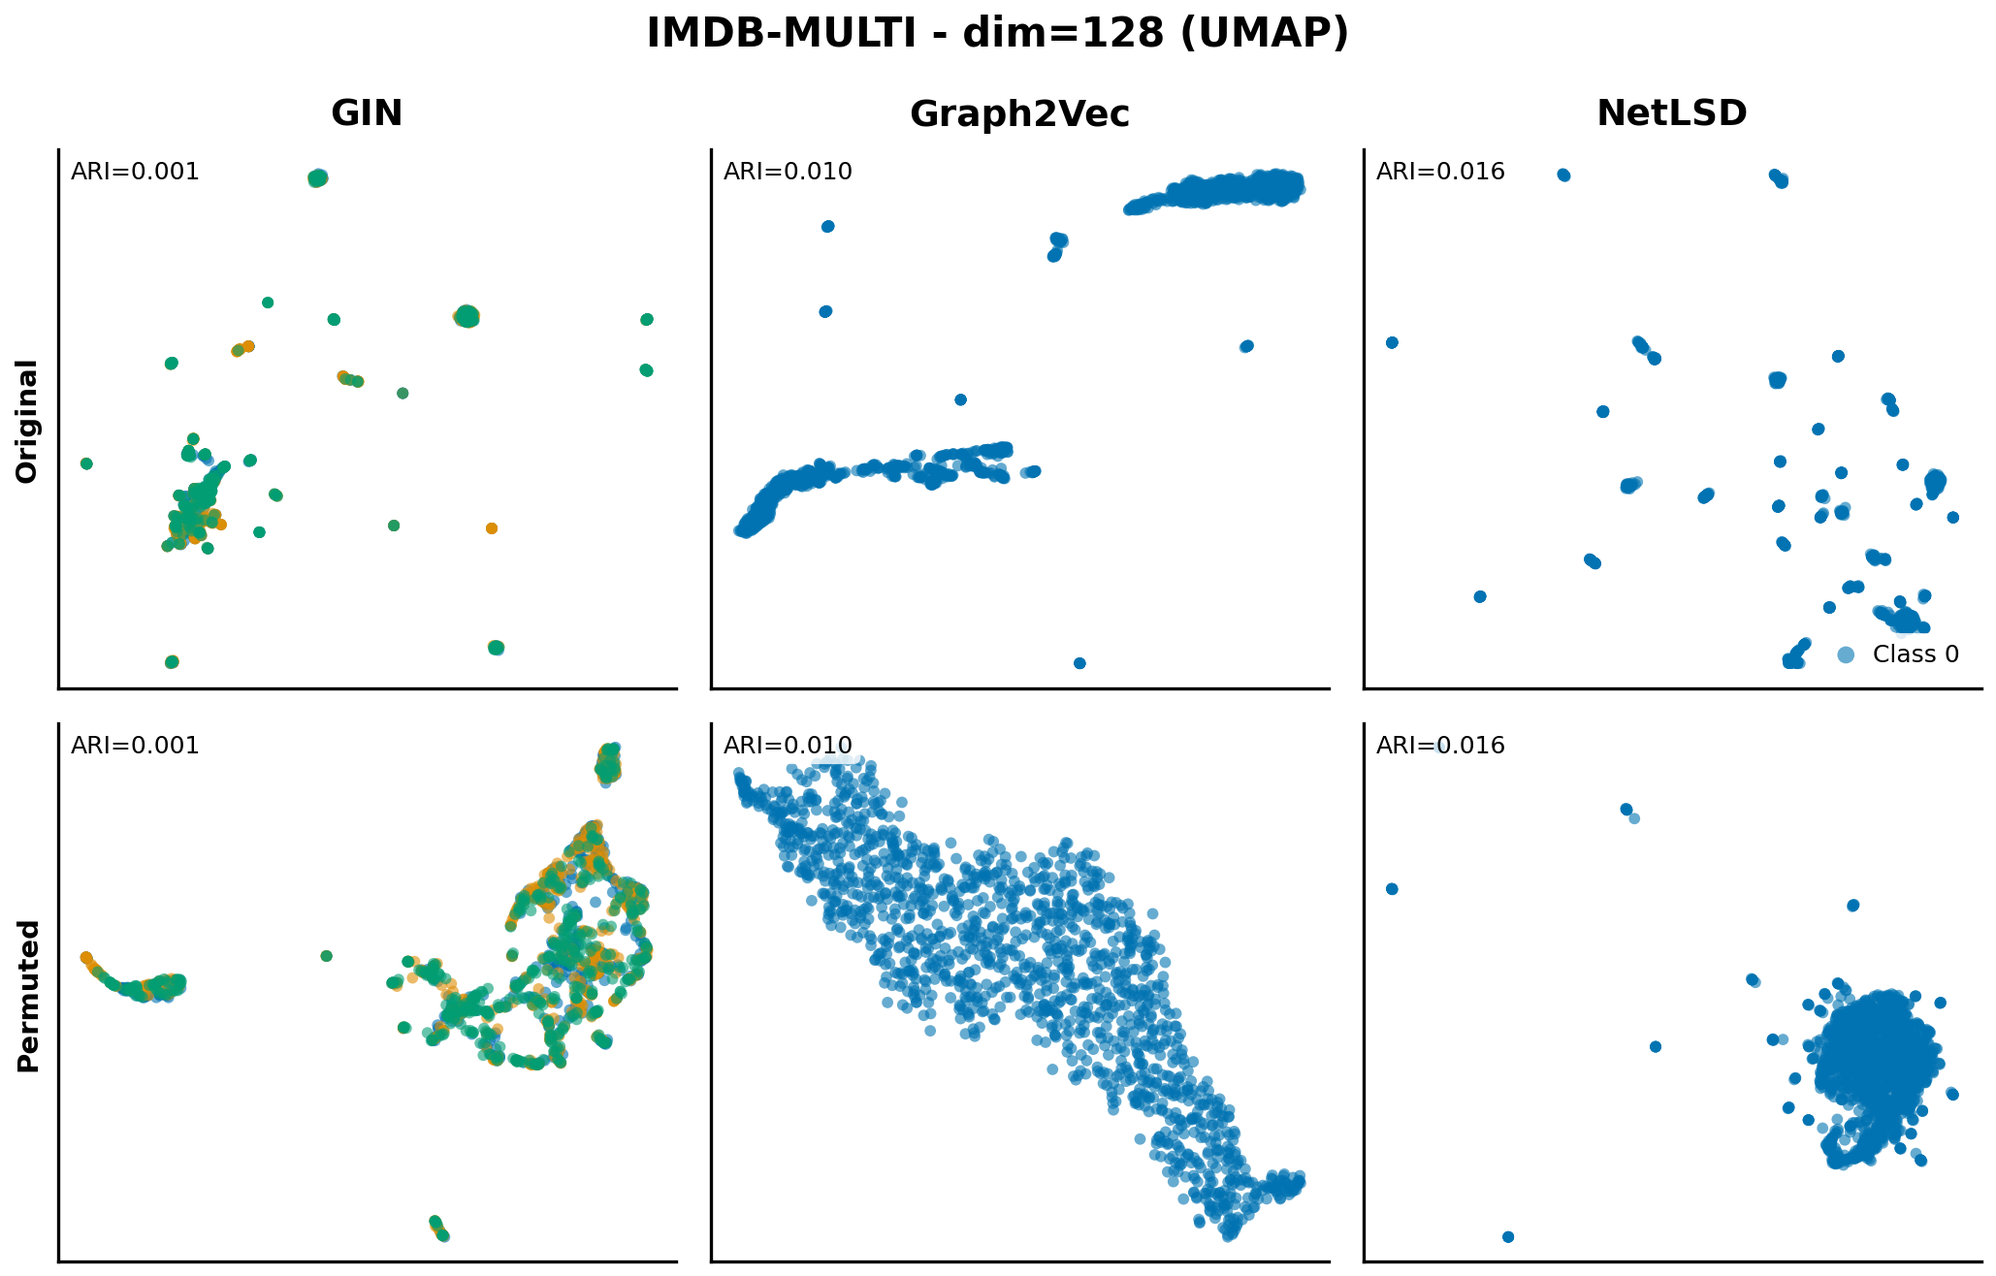
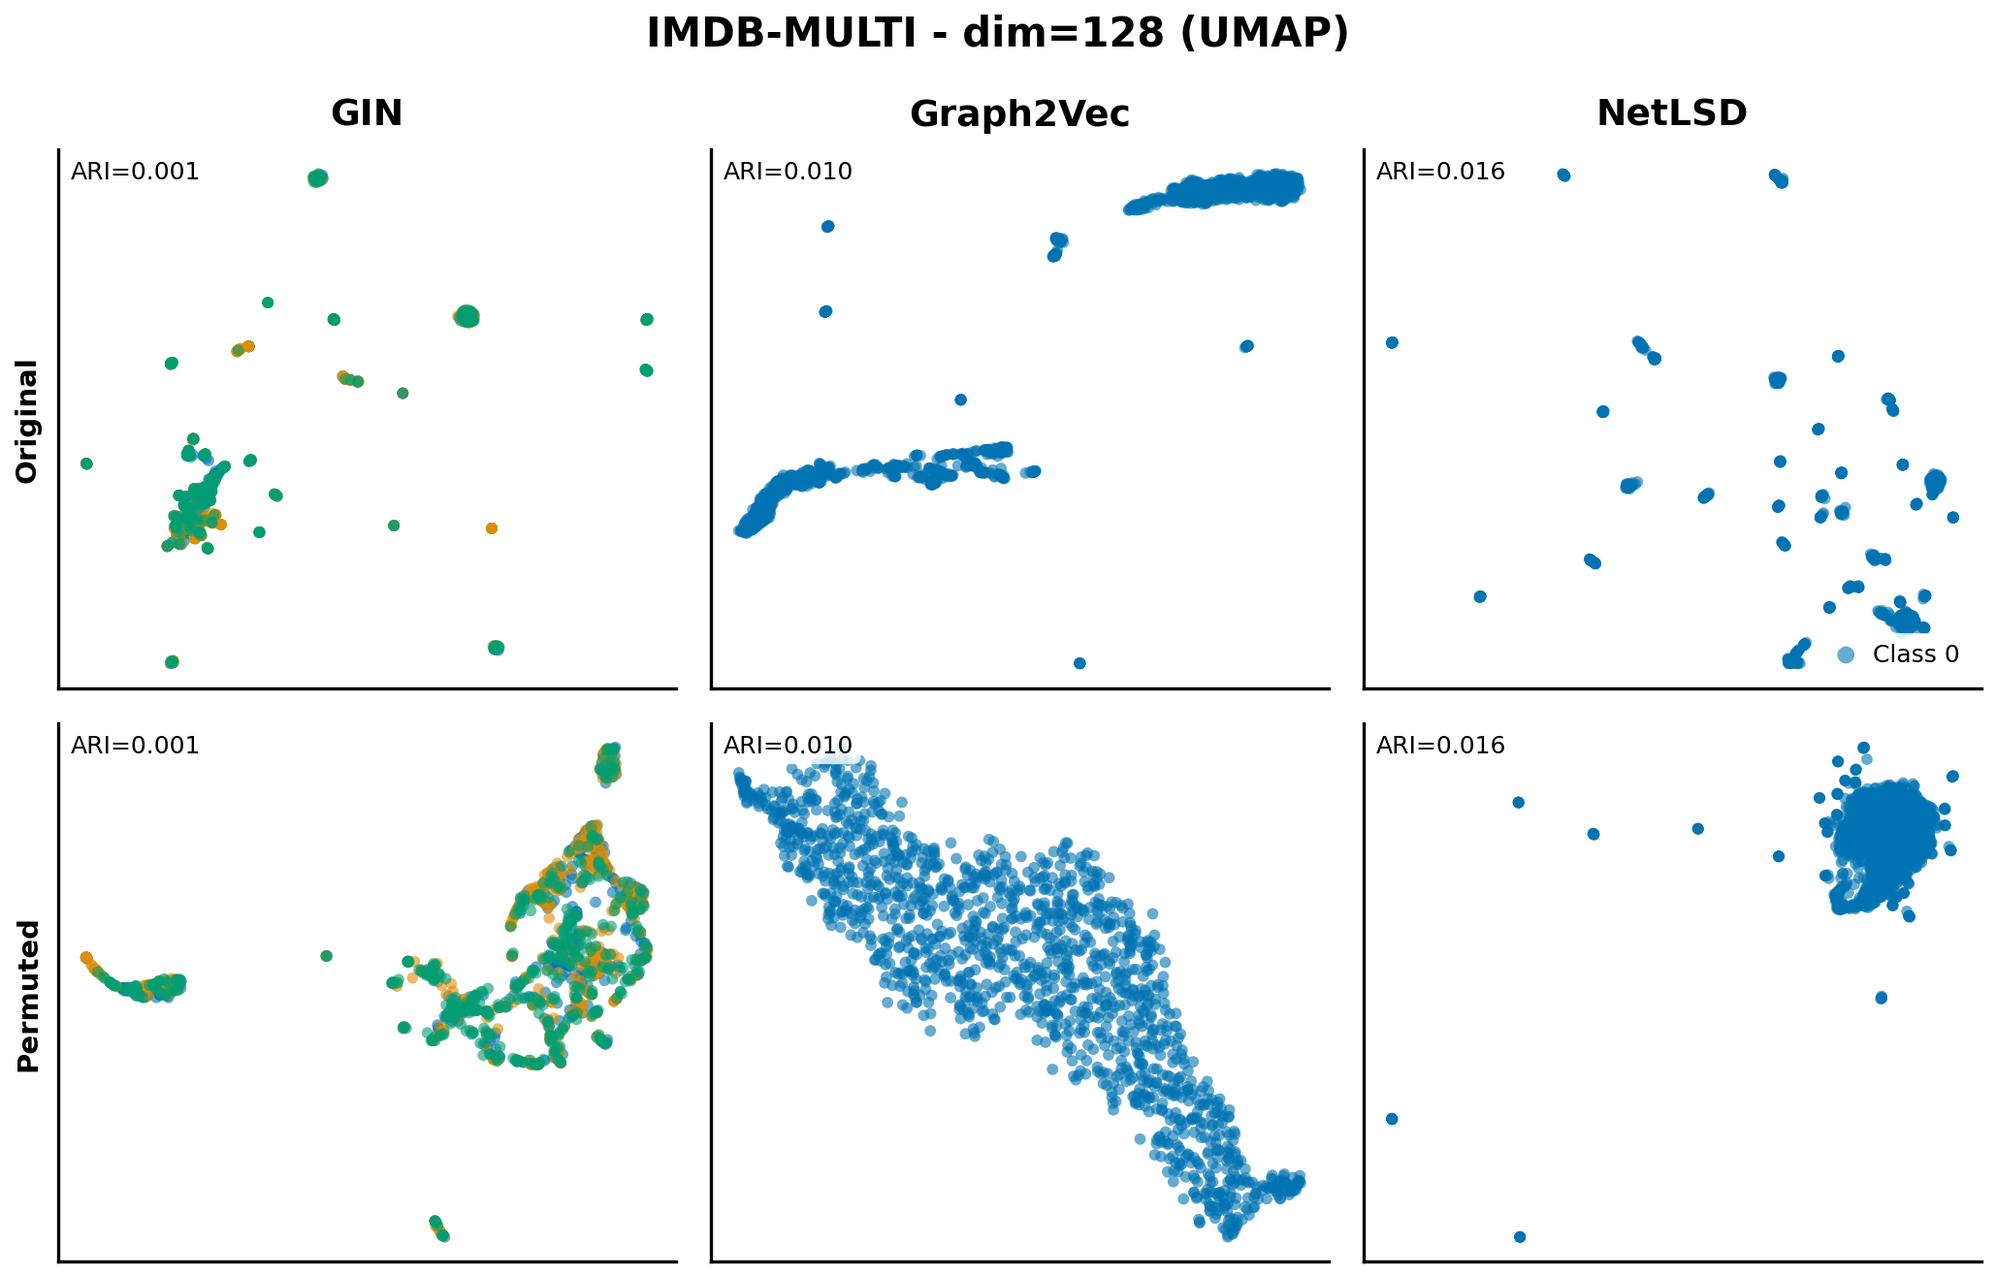
all plots done

Changed region(s): [[0.8707, 0.7477, 0.9951, 0.9347], [0.9018, 0.5919, 0.9951, 0.7166], [0.8086, 0.6231, 0.8397, 0.6543]]

diff --git a/scripts/clustering_vis_extended.py b/scripts/clustering_vis_extended.py
@@ -805,6 +805,305 @@ def create_metrics_heatmap(df, cluster_alg='kmeans', output_path=None):
 
 
 # =============================================================================
+# NEW: t-SNE vs UMAP PER DATASET (2×3)
+# =============================================================================
+
+def create_tsne_vs_umap_per_dataset(df, dataset, dim, base_dir, datasets_dir, output_path=None):
+    """
+    t-SNE vs UMAP comparison for a single dataset.
+    Layout: 2×3 (rows: t-SNE/UMAP, cols: GIN/Graph2Vec/NetLSD)
+    """
+    if not UMAP_AVAILABLE:
+        print("UMAP not available.")
+        return None
+    
+    fig, axes = plt.subplots(2, 3, figsize=Config.FIGSIZE_2x3)
+    
+    for col, method in enumerate(Config.METHODS):
+        best_config = get_best_config_for_method_dataset_dim(df, method, dataset, dim)
+        
+        embeddings, labels = None, None
+        if best_config is not None:
+            run_name = best_config.get('run_name') if pd.notna(best_config.get('run_name')) else None
+            embeddings, labels = load_embeddings(method, dataset, dim, base_dir, datasets_dir, run_name)
+        
+        for row, proj_type in enumerate(['tsne', 'umap']):
+            ax = axes[row, col]
+            
+            if embeddings is None:
+                plot_empty_cell(ax, 'N/A', method if row == 0 else None)
+                if col == 0:
+                    ax.set_ylabel('t-SNE' if proj_type == 'tsne' else 'UMAP',
+                                 fontsize=Config.LABEL_SIZE, fontweight='bold')
+                continue
+            
+            projection = compute_projection(embeddings, proj_type)
+            metrics_text = f"ARI={best_config['ari']:.3f}\nNMI={best_config['nmi']:.3f}"
+            
+            title = method if row == 0 else None
+            plot_embedding_scatter(ax, projection, labels, title=title,
+                                  metrics_text=metrics_text, show_legend=(row == 0 and col == 2))
+            
+            if col == 0:
+                ax.set_ylabel('t-SNE' if proj_type == 'tsne' else 'UMAP',
+                             fontsize=Config.LABEL_SIZE, fontweight='bold')
+    
+    fig.suptitle(f"{dataset} - t-SNE vs UMAP (dim={dim})",
+                fontsize=Config.TITLE_SIZE + 1, fontweight='bold', y=0.98)
+    plt.tight_layout()
+    
+    if output_path:
+        plt.savefig(output_path, dpi=Config.DPI, bbox_inches='tight')
+        print(f"Saved: {output_path}")
+    
+    return fig
+
+
+# =============================================================================
+# NEW: K-MEANS vs SPECTRAL PER DATASET (2×3)
+# =============================================================================
+
+def create_kmeans_vs_spectral_per_dataset(df, dataset, dim, base_dir, datasets_dir,
+                                          projection_type='tsne', output_path=None):
+    """
+    K-means vs Spectral clustering comparison for a single dataset.
+    Layout: 2×3 (rows: K-means/Spectral, cols: GIN/Graph2Vec/NetLSD)
+    """
+    fig, axes = plt.subplots(2, 3, figsize=Config.FIGSIZE_2x3)
+    
+    cluster_algs = ['kmeans', 'spectral']
+    cluster_labels = ['K-means', 'Spectral']
+    
+    for col, method in enumerate(Config.METHODS):
+        # Load embeddings once (same for both clustering methods)
+        best_config_km = get_best_config_for_method_dataset_dim(df, method, dataset, dim, cluster_alg='kmeans')
+        
+        embeddings, labels = None, None
+        if best_config_km is not None:
+            run_name = best_config_km.get('run_name') if pd.notna(best_config_km.get('run_name')) else None
+            embeddings, labels = load_embeddings(method, dataset, dim, base_dir, datasets_dir, run_name)
+        
+        # Compute projection once
+        projection = None
+        if embeddings is not None:
+            projection = compute_projection(embeddings, projection_type)
+        
+        for row, (alg, alg_label) in enumerate(zip(cluster_algs, cluster_labels)):
+            ax = axes[row, col]
+            
+            best_config = get_best_config_for_method_dataset_dim(df, method, dataset, dim, cluster_alg=alg)
+            
+            if embeddings is None or best_config is None:
+                plot_empty_cell(ax, 'N/A', method if row == 0 else None)
+                if col == 0:
+                    ax.set_ylabel(alg_label, fontsize=Config.LABEL_SIZE, fontweight='bold')
+                continue
+            
+            metrics_text = f"ARI={best_config['ari']:.3f}\nNMI={best_config['nmi']:.3f}"
+            
+            title = method if row == 0 else None
+            plot_embedding_scatter(ax, projection, labels, title=title,
+                                  metrics_text=metrics_text, show_legend=(row == 0 and col == 2))
+            
+            if col == 0:
+                ax.set_ylabel(alg_label, fontsize=Config.LABEL_SIZE, fontweight='bold')
+    
+    fig.suptitle(f"{dataset} - K-means vs Spectral ({projection_type.upper()}, dim={dim})",
+                fontsize=Config.TITLE_SIZE + 1, fontweight='bold', y=0.98)
+    plt.tight_layout()
+    
+    if output_path:
+        plt.savefig(output_path, dpi=Config.DPI, bbox_inches='tight')
+        print(f"Saved: {output_path}")
+    
+    return fig
+
+
+# =============================================================================
+# NEW: COMPREHENSIVE GRID - SEPARATE FOR ORIGINAL AND PERMUTED (3×3)
+# =============================================================================
+
+def create_comprehensive_single_source(df, base_dir, datasets_dir, projection_type='tsne',
+                                       dim=128, source_label='Original', output_path=None):
+    """
+    Comprehensive grid for a single source (original OR permuted).
+    Layout: 3×3 (rows: Methods, cols: Datasets)
+    """
+    fig, axes = plt.subplots(3, 3, figsize=Config.FIGSIZE_3x3)
+    
+    for m_idx, method in enumerate(Config.METHODS):
+        for d_idx, dataset in enumerate(Config.DATASETS):
+            ax = axes[m_idx, d_idx]
+            
+            best_config = get_best_config_for_method_dataset_dim(df, method, dataset, dim)
+            
+            if best_config is None:
+                plot_empty_cell(ax, 'N/A')
+                if m_idx == 0:
+                    ax.set_title(dataset, fontsize=Config.TITLE_SIZE, fontweight='bold')
+                if d_idx == 0:
+                    ax.set_ylabel(method, fontsize=Config.LABEL_SIZE, fontweight='bold')
+                continue
+            
+            run_name = best_config.get('run_name') if pd.notna(best_config.get('run_name')) else None
+            embeddings, labels = load_embeddings(method, dataset, dim, base_dir, datasets_dir, run_name)
+            
+            if embeddings is None:
+                plot_empty_cell(ax, 'Missing')
+                if m_idx == 0:
+                    ax.set_title(dataset, fontsize=Config.TITLE_SIZE, fontweight='bold')
+                if d_idx == 0:
+                    ax.set_ylabel(method, fontsize=Config.LABEL_SIZE, fontweight='bold')
+                continue
+            
+            projection = compute_projection(embeddings, projection_type)
+            metrics_text = f"ARI={best_config['ari']:.3f}"
+            
+            plot_embedding_scatter(ax, projection, labels, metrics_text=metrics_text,
+                                  show_legend=(m_idx == 0 and d_idx == 2))
+            
+            if m_idx == 0:
+                ax.set_title(dataset, fontsize=Config.TITLE_SIZE, fontweight='bold')
+            if d_idx == 0:
+                ax.set_ylabel(method, fontsize=Config.LABEL_SIZE, fontweight='bold')
+    
+    fig.suptitle(f"{source_label} Embeddings - Methods × Datasets ({projection_type.upper()}, dim={dim})",
+                fontsize=Config.TITLE_SIZE + 1, fontweight='bold', y=0.99)
+    plt.tight_layout()
+    
+    if output_path:
+        plt.savefig(output_path, dpi=Config.DPI, bbox_inches='tight')
+        print(f"Saved: {output_path}")
+    
+    return fig
+
+
+# =============================================================================
+# NEW: t-SNE vs UMAP COMPREHENSIVE (3×3 per projection, side by side = 3×6)
+# =============================================================================
+
+def create_tsne_umap_all_methods_datasets(df, base_dir, datasets_dir, dim=128, output_path=None):
+    """
+    Comprehensive t-SNE vs UMAP: All methods × all datasets.
+    Layout: 3×6 (rows: Methods, cols: Datasets × t-SNE/UMAP)
+    """
+    if not UMAP_AVAILABLE:
+        print("UMAP not available.")
+        return None
+    
+    fig = plt.figure(figsize=Config.FIGSIZE_3x6)
+    gs = gridspec.GridSpec(3, 6, figure=fig, wspace=0.08, hspace=0.25)
+    
+    for m_idx, method in enumerate(Config.METHODS):
+        for d_idx, dataset in enumerate(Config.DATASETS):
+            best_config = get_best_config_for_method_dataset_dim(df, method, dataset, dim)
+            
+            embeddings, labels = None, None
+            if best_config is not None:
+                run_name = best_config.get('run_name') if pd.notna(best_config.get('run_name')) else None
+                embeddings, labels = load_embeddings(method, dataset, dim, base_dir, datasets_dir, run_name)
+            
+            for p_idx, proj_type in enumerate(['tsne', 'umap']):
+                col = d_idx * 2 + p_idx
+                ax = fig.add_subplot(gs[m_idx, col])
+                
+                if embeddings is None:
+                    plot_empty_cell(ax, 'N/A')
+                    if m_idx == 0:
+                        label = 't-SNE' if proj_type == 'tsne' else 'UMAP'
+                        ax.set_title(f"{dataset}\n({label})", fontsize=7, fontweight='bold')
+                    if col == 0:
+                        ax.set_ylabel(method, fontsize=8, fontweight='bold')
+                    continue
+                
+                projection = compute_projection(embeddings, proj_type)
+                metrics_text = f"ARI={best_config['ari']:.2f}"
+                
+                plot_embedding_scatter(ax, projection, labels, metrics_text=metrics_text, marker_size=5)
+                
+                if m_idx == 0:
+                    label = 't-SNE' if proj_type == 'tsne' else 'UMAP'
+                    ax.set_title(f"{dataset}\n({label})", fontsize=7, fontweight='bold')
+                if col == 0:
+                    ax.set_ylabel(method, fontsize=8, fontweight='bold')
+    
+    fig.suptitle(f"t-SNE vs UMAP - All Methods × All Datasets (dim={dim})",
+                fontsize=10, fontweight='bold', y=0.99)
+    plt.tight_layout()
+    
+    if output_path:
+        plt.savefig(output_path, dpi=Config.DPI, bbox_inches='tight')
+        print(f"Saved: {output_path}")
+    
+    return fig
+
+
+# =============================================================================
+# NEW: K-MEANS vs SPECTRAL COMPREHENSIVE (3×6)
+# =============================================================================
+
+def create_kmeans_spectral_all_methods_datasets(df, base_dir, datasets_dir, 
+                                                 projection_type='tsne', dim=128, output_path=None):
+    """
+    Comprehensive K-means vs Spectral: All methods × all datasets.
+    Layout: 3×6 (rows: Methods, cols: Datasets × K-means/Spectral)
+    """
+    fig = plt.figure(figsize=Config.FIGSIZE_3x6)
+    gs = gridspec.GridSpec(3, 6, figure=fig, wspace=0.08, hspace=0.25)
+    
+    cluster_algs = ['kmeans', 'spectral']
+    cluster_short = ['KM', 'Spec']
+    
+    for m_idx, method in enumerate(Config.METHODS):
+        for d_idx, dataset in enumerate(Config.DATASETS):
+            # Load embeddings once
+            best_config_km = get_best_config_for_method_dataset_dim(df, method, dataset, dim, cluster_alg='kmeans')
+            
+            embeddings, labels = None, None
+            if best_config_km is not None:
+                run_name = best_config_km.get('run_name') if pd.notna(best_config_km.get('run_name')) else None
+                embeddings, labels = load_embeddings(method, dataset, dim, base_dir, datasets_dir, run_name)
+            
+            # Compute projection once
+            projection = None
+            if embeddings is not None:
+                projection = compute_projection(embeddings, projection_type)
+            
+            for c_idx, (alg, alg_short) in enumerate(zip(cluster_algs, cluster_short)):
+                col = d_idx * 2 + c_idx
+                ax = fig.add_subplot(gs[m_idx, col])
+                
+                best_config = get_best_config_for_method_dataset_dim(df, method, dataset, dim, cluster_alg=alg)
+                
+                if embeddings is None or best_config is None:
+                    plot_empty_cell(ax, 'N/A')
+                    if m_idx == 0:
+                        ax.set_title(f"{dataset}\n({alg_short})", fontsize=7, fontweight='bold')
+                    if col == 0:
+                        ax.set_ylabel(method, fontsize=8, fontweight='bold')
+                    continue
+                
+                metrics_text = f"ARI={best_config['ari']:.2f}"
+                
+                plot_embedding_scatter(ax, projection, labels, metrics_text=metrics_text, marker_size=5)
+                
+                if m_idx == 0:
+                    ax.set_title(f"{dataset}\n({alg_short})", fontsize=7, fontweight='bold')
+                if col == 0:
+                    ax.set_ylabel(method, fontsize=8, fontweight='bold')
+    
+    fig.suptitle(f"K-means vs Spectral - All Methods × All Datasets ({projection_type.upper()}, dim={dim})",
+                fontsize=10, fontweight='bold', y=0.99)
+    plt.tight_layout()
+    
+    if output_path:
+        plt.savefig(output_path, dpi=Config.DPI, bbox_inches='tight')
+        print(f"Saved: {output_path}")
+    
+    return fig
+
+
+# =============================================================================
 # MAIN EXECUTION
 # =============================================================================
 
@@ -825,6 +1124,10 @@ def generate_all_figures(base_dir, datasets_dir, permuted_base_dir=None, output_
     (output_dir / "single_row").mkdir(exist_ok=True)
     (output_dir / "comparison").mkdir(exist_ok=True)
     (output_dir / "grids").mkdir(exist_ok=True)
+    (output_dir / "tsne_vs_umap").mkdir(exist_ok=True)
+    (output_dir / "kmeans_vs_spectral").mkdir(exist_ok=True)
+    (output_dir / "comprehensive_original").mkdir(exist_ok=True)
+    (output_dir / "comprehensive_permuted").mkdir(exist_ok=True)
     
     for proj in projection_types:
         if proj == 'umap' and not UMAP_AVAILABLE:
@@ -860,6 +1163,44 @@ def generate_all_figures(base_dir, datasets_dir, permuted_base_dir=None, output_
                 generated.append(f"grids/methods_dims_{dataset}_{proj}.png")
                 plt.close(fig)
         
+        # --- COMPREHENSIVE ORIGINAL (3×3) ---
+        print("Creating comprehensive original grid...")
+        fig = create_comprehensive_single_source(
+            df, base_dir, datasets_dir, proj, 128, 'Original',
+            output_dir / "comprehensive_original" / f"comprehensive_original_{proj}.png")
+        if fig:
+            generated.append(f"comprehensive_original/comprehensive_original_{proj}.png")
+            plt.close(fig)
+        
+        # --- COMPREHENSIVE PERMUTED (3×3) ---
+        if permuted_base_dir:
+            print("Creating comprehensive permuted grid...")
+            fig = create_comprehensive_single_source(
+                df, permuted_base_dir, datasets_dir, proj, 128, 'Permuted',
+                output_dir / "comprehensive_permuted" / f"comprehensive_permuted_{proj}.png")
+            if fig:
+                generated.append(f"comprehensive_permuted/comprehensive_permuted_{proj}.png")
+                plt.close(fig)
+        
+        # --- K-MEANS vs SPECTRAL PER DATASET (2×3) ---
+        print("Creating K-means vs Spectral per dataset...")
+        for dataset in Config.DATASETS:
+            fig = create_kmeans_vs_spectral_per_dataset(
+                df, dataset, 128, base_dir, datasets_dir, proj,
+                output_dir / "kmeans_vs_spectral" / f"kmeans_vs_spectral_{dataset}_{proj}.png")
+            if fig:
+                generated.append(f"kmeans_vs_spectral/kmeans_vs_spectral_{dataset}_{proj}.png")
+                plt.close(fig)
+        
+        # --- K-MEANS vs SPECTRAL COMPREHENSIVE (3×6) ---
+        print("Creating K-means vs Spectral comprehensive...")
+        fig = create_kmeans_spectral_all_methods_datasets(
+            df, base_dir, datasets_dir, proj, 128,
+            output_dir / "kmeans_vs_spectral" / f"kmeans_vs_spectral_comprehensive_{proj}.png")
+        if fig:
+            generated.append(f"kmeans_vs_spectral/kmeans_vs_spectral_comprehensive_{proj}.png")
+            plt.close(fig)
+        
         # --- COMPARISON FIGURES (if permuted exists) ---
         if permuted_base_dir:
             print("Creating comparison figures...")
@@ -878,14 +1219,33 @@ def generate_all_figures(base_dir, datasets_dir, permuted_base_dir=None, output_
                 generated.append(f"comparison/comprehensive_orig_vs_perm_{proj}.png")
                 plt.close(fig)
     
-    # --- t-SNE vs UMAP COMPARISON ---
+    # --- t-SNE vs UMAP PER DATASET (2×3) ---
     if UMAP_AVAILABLE:
-        print("Creating t-SNE vs UMAP comparisons...")
+        print("Creating t-SNE vs UMAP per dataset...")
+        for dataset in Config.DATASETS:
+            fig = create_tsne_vs_umap_per_dataset(
+                df, dataset, 128, base_dir, datasets_dir,
+                output_dir / "tsne_vs_umap" / f"tsne_vs_umap_{dataset}.png")
+            if fig:
+                generated.append(f"tsne_vs_umap/tsne_vs_umap_{dataset}.png")
+                plt.close(fig)
+        
+        # --- t-SNE vs UMAP COMPREHENSIVE (3×6) ---
+        print("Creating t-SNE vs UMAP comprehensive...")
+        fig = create_tsne_umap_all_methods_datasets(
+            df, base_dir, datasets_dir, 128,
+            output_dir / "tsne_vs_umap" / "tsne_vs_umap_comprehensive.png")
+        if fig:
+            generated.append("tsne_vs_umap/tsne_vs_umap_comprehensive.png")
+            plt.close(fig)
+        
+        # --- t-SNE vs UMAP per method (existing) ---
+        print("Creating t-SNE vs UMAP comparisons per method...")
         fig = create_tsne_umap_comparison_grid(
             df, base_dir, datasets_dir, 128,
-            output_dir / "grids" / "tsne_vs_umap_comprehensive.png")
+            output_dir / "grids" / "tsne_vs_umap_grid.png")
         if fig:
-            generated.append("grids/tsne_vs_umap_comprehensive.png")
+            generated.append("grids/tsne_vs_umap_grid.png")
             plt.close(fig)
         
         for method in Config.METHODS:
